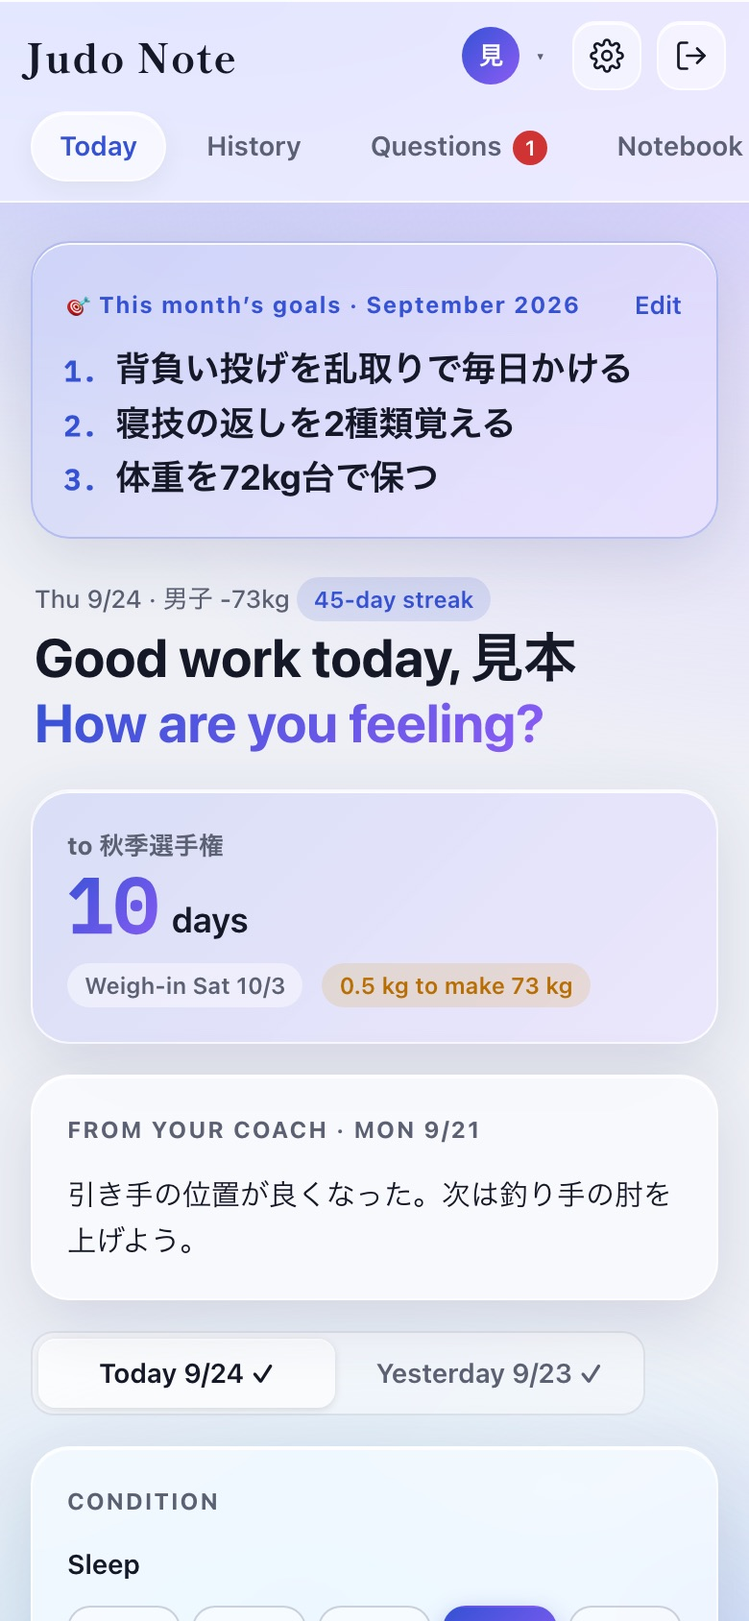
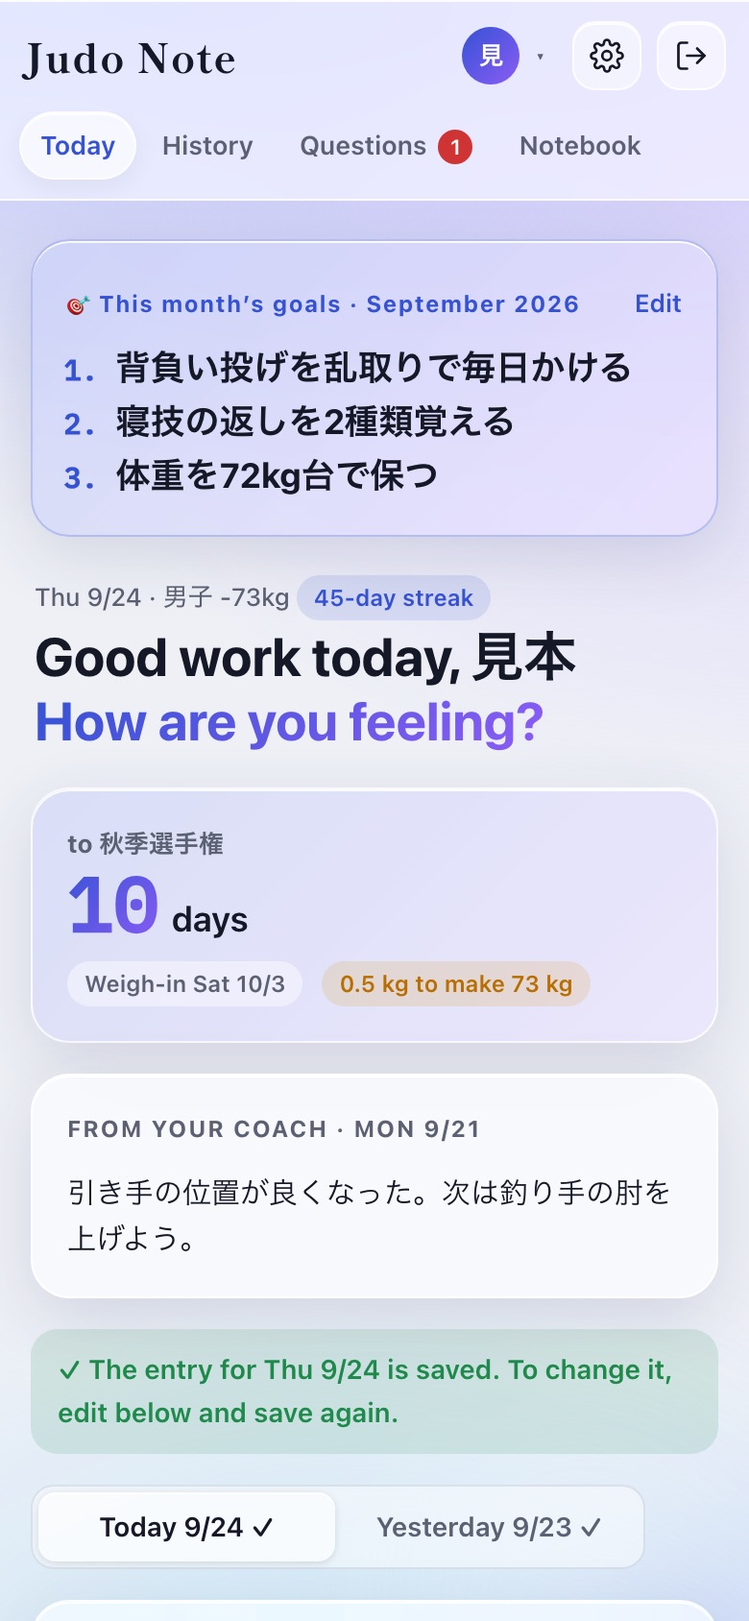
保存・送信の完了表示とひとこと、メッセージアプリ表記、公開前の最終調整

diff --git a/index.html b/index.html
@@ -354,6 +354,21 @@ textarea.inp{min-height:84px;resize:vertical;line-height:1.55}
 .acctrow{display:grid;grid-template-columns:auto 1fr auto;gap:10px;align-items:center;width:100%;text-align:left;border:1px solid var(--line);background:var(--panel2);border-radius:14px;padding:10px 12px;font:inherit;color:inherit;cursor:pointer}
 .acctrow.now{border-color:var(--accent);background:var(--tint)}
 .acchip{border:1px solid var(--line2);background:var(--panel2);border-radius:999px;padding:6px 13px;font:inherit;font-size:14px;font-weight:600;cursor:pointer;color:inherit} .acchip.on{border-color:var(--accent);color:var(--accent);background:var(--tint)}
+.btn.saving{opacity:.7;cursor:wait}
+.savedbar{padding:10px 14px;border-radius:14px;background:var(--good-s);color:var(--good);font-size:14px;font-weight:600}
+.done{position:fixed;inset:0;z-index:70;display:grid;place-items:center;padding:20px;background:rgba(10,12,20,.25);-webkit-backdrop-filter:blur(3px);backdrop-filter:blur(3px);animation:fadein .15s ease-out}
+.done-card{width:min(360px,100%);text-align:center;background:var(--glass);border:1px solid var(--glass-bd);border-radius:26px;box-shadow:var(--shadow),var(--hi);padding:24px 22px 18px;-webkit-backdrop-filter:blur(30px) saturate(1.6);backdrop-filter:blur(30px) saturate(1.6);animation:pop .28s cubic-bezier(.2,1.4,.4,1)}
+.done-card.big{width:min(420px,100%);padding:30px 24px 22px}
+.done-check svg{width:64px;height:64px} .done-card.big .done-check svg{width:84px;height:84px}
+.done-check circle{fill:none;stroke:var(--good);stroke-width:3;stroke-dasharray:151;stroke-dashoffset:151;animation:draw .45s .05s ease-out forwards}
+.done-check path{fill:none;stroke:var(--good);stroke-width:4;stroke-linecap:round;stroke-linejoin:round;stroke-dasharray:36;stroke-dashoffset:36;animation:draw .3s .4s ease-out forwards}
+.done-title{font-size:20px;font-weight:800;margin-top:8px} .done-card.big .done-title{font-size:24px}
+.done-msg{font-size:16px;margin-top:6px;line-height:1.6} .done-sub{font-size:13px;color:var(--dim);margin-top:8px;font-weight:600}
+.done-actions{display:flex;gap:8px;justify-content:center;margin-top:16px;flex-wrap:wrap}
+@keyframes draw{to{stroke-dashoffset:0}} @keyframes pop{from{transform:scale(.85);opacity:0}to{transform:none;opacity:1}} @keyframes fadein{from{opacity:0}}
+@media (prefers-reduced-motion:reduce){.done,.done-card,.done-check circle,.done-check path{animation:none;stroke-dashoffset:0}}
+@media (max-width:520px){.tabs .tab{padding:6px 10px;font-size:13.5px}.tabs{gap:2px;padding-inline:10px}
+  .subtabs{-webkit-mask-image:linear-gradient(to right,#000 85%,transparent);mask-image:linear-gradient(to right,#000 85%,transparent);padding-right:24px}}
 .st-bar{color:var(--accent)}
 .danger-btn{background:var(--bad);box-shadow:none}
 .btn:disabled{opacity:.55;cursor:wait}
@@ -362,6 +377,7 @@ textarea.inp{min-height:84px;resize:vertical;line-height:1.55}
 <body>
 <div id="app"></div>
 <div id="toast" class="toast noprint" role="status" hidden></div>
+<div id="done" class="done noprint" hidden></div>
 <script src="https://cdn.jsdelivr.net/npm/@supabase/supabase-js@2.117.1/dist/umd/supabase.min.js"></script>
 <script>
 /* =============================================================
@@ -377,9 +393,9 @@ const I18N = {
   n_what_a:'届く通知：毎日{h}に、その日の記録がまだならお知らせが1回だけ届きます。', n_what_c:'届く通知：毎日{h}に、チームのまとめ（記録した人数・未入力・欠席・痛みやケガ・未返信の質問）が1回だけ届きます。',
   n_what_off:'（毎日のお知らせは「なし」になっています）', remind_c:'毎日のまとめの時刻', n_sent0:'この端末はまだ通知の受け取り先として登録されていません。',
   pv_btn:'👀 選手の画面で見る', pv_banner:'{n}さんの画面を見ています（閲覧モード・書き込みはできません）', pv_exit:'閲覧モードを終わる',
-  inv_steps_t:'招待のしかた', inv_s1:'「誰に渡すか」に選手の名前を書いて「発行する」を押す（メモなので選手には見えません）', inv_s2:'できあがった招待メッセージを「送る」で、LINEなどから選手に送る（日本語・英語を選べます）',
+  inv_steps_t:'招待のしかた', inv_s1:'「誰に渡すか」に選手の名前を書いて「発行する」を押す（メモなので選手には見えません）', inv_s2:'できあがった招待メッセージを「送る」で、メッセージアプリなどから選手に送る（日本語・英語を選べます）',
   inv_s3:'選手がリンクを開き、自分でIDとパスワードを決めて登録する → 下の「選手」に名前が出たら完了', inv_s4:'保護者は、選手の登録が終わってから、その選手の欄の「＋ 保護者用コード」で同じように送る',
-  inv_note:'招待リンクは1人1回・14日間有効です。使われなかったコードは「取り消す」で消せます。', msg_lang:'メッセージの言語', share:'送る', msg_copied:'メッセージをコピーしました。LINEなどに貼り付けて送ってください。',
+  inv_note:'招待リンクは1人1回・14日間有効です。使われなかったコードは「取り消す」で消せます。', msg_lang:'メッセージの言語', share:'送る', msg_copied:'メッセージをコピーしました。メッセージアプリなどに貼り付けて送ってください。',
   g_hello:'{n}さんの記録', g_sub:'保護者として見ています（見るだけ）', t_g_log:'記録', viewers:'あなたの記録を見られる人', viewers_list:'コーチ{g}', viewers_g:'・保護者（{n}）',
   coach_only:'コーチだけに見せる（保護者には見えません）', coach_only_pill:'コーチだけ', g_inv:'保護者用コード', g_inv_made:'{n}さんの保護者用コードです。保護者に渡してください。', guardians:'保護者', g_join:'{a}さんの保護者として登録します（見るだけ）', g_remove:'外す',
   loading:'読み込み中…', join:'招待コードで登録', join_title:'チームに参加する', code:'招待コード', code_check:'確認', code_ok:'「{t}」に参加します', code_bad:'この招待コードは使えません。コーチに新しいコードをもらってください。',
@@ -407,6 +423,20 @@ const I18N = {
   run_title:'ランニング', run_latest:'最新', run_best:'自己ベスト', run_hist:'これまでの記録', run_add:'記録を追加', run_date:'測った日', run_dist:'距離（km）', run_time:'タイム', run_min:'分', run_sec:'秒', run_note:'メモ（任意）',
   run_saved:'ランニングの記録を保存しました', run_none:'まだ記録がありません。測ったときに入れよう。', run_pace:'1kmあたり', run_del:'削除', run_chart:'タイムの推移（上にいくほど速い）', run_up:'前回より {s} 速い', run_down:'前回より {s} 遅い', run_same:'前回と同じ',
   mon_title:'📘 {m}のまとめ', mon_days:'稽古', mon_time:'稽古時間', mon_avg:'平均の調子', mon_run:'ランニング最新', mon_match:'試合', mon_open:'冊子で見る', mon_day_u:'日', mon_match_u:'試合',
+  saving:'保存中…', done_ok:'OK', done_log:'記録を見る', done_saved_t:'保存しました！', done_saved_note:'✓ {d}の記録は保存済みです。直したいときは書き換えて、もう一度保存してください。',
+  ch_entry:['今日も記録ありがとう！明日もいっしょにがんばろう。','おつかれさま！書いたことが、きっと力になるよ。','記録完了！続けていることがいちばんの強さ。','ナイス記録！ゆっくり休んで、また明日。','今日もよくがんばったね。ちゃんと届いているよ！'],
+  ch_entry_y:['昨日の分も書けたね！えらい！','思い出して書けたのが立派！今日もがんばろう。'],
+  ch_head:'コーチの画面にしっかり表示されます。症状があるうちは稽古を休んで、病院で診てもらってください。お大事に。',
+  ch_streak:'記録 {n}日連続！', ch_stats:'調子 {s}/25 · 稽古 {m}分',
+  ch_ask_t:'質問を送りました！', ch_ask:['質問できるのはえらい！コーチからの返事を待っていてね。','いい質問！返事が来たら「質問」タブに数字が出るよ。'],
+  ch_reply_t:'返信を送りました', ch_reply_c:['選手にしっかり届きます。ありがとうございます！','ひとことが選手の力になります。'], ch_reply_a:['送りました！やりとりを続けていこう。'],
+  ch_cmt_t:'コメントを送りました', ch_cmt:['選手の励みになります。ありがとうございます！','選手の画面にすぐ表示されます。'],
+  ch_seen_t:'「見たよ」を送りました', ch_seen:['選手に「コーチが見ました」と表示されます。'],
+  ch_run_t:'ランニングを記録しました！', ch_run:['コツコツが力になる。ナイスラン！','よく走った！次も自分と勝負しよう。'], ch_pb_t:'🏅 自己ベスト更新！', ch_pb:['すごい！新しい記録だ！','努力が結果に出たね。おめでとう！'],
+  ch_mr_t:'振り返りを保存しました！', ch_mr:['試合のあとにふり返れるのは、強くなる選手の証拠。次につなげよう！','おつかれさま！書いたことを次の稽古に活かそう。'],
+  ch_goal_t:'今月の目標を保存しました！', ch_goal:['毎日少しずつ近づこう。応援しているよ！','目標があると練習が変わる。がんばろう！'],
+  ch_ev_t:'試合の予定を追加しました', ch_ev:['準備していこう！体調管理も大事だよ。'],
+  ch_inv_t:'招待コードを発行しました', ch_inv:['下の「📤 送る」から届けましょう。'],
   ed_edit:'編集', ed_mark:'（編集済み）', ed_save:'直す', ed_done:'直しました',
   ac_title:'この端末のアカウント', ac_help:'家族で1台のスマホを使うときは、ここで切り替えます。選手のアカウントは、親のスマホで使い終わると自動でログアウトします（次はパスワードが必要です）。', ac_add:'＋ 別の人がログインする',
   ac_needpw:'パスワードが必要', ac_now:'使用中', ac_role:{coach:'コーチ',athlete:'選手',guardian:'保護者'}, ac_saved:'この端末のアカウント', ac_forget:'この端末から外す', ac_switched:'{n}さんに切り替えました', ac_tap:'名前を押すと切り替えられます',
@@ -439,7 +469,7 @@ const I18N = {
   head_saved:'コーチに知らせました。症状があるうちは稽古を休み、医療機関で診てもらってください。',
   seen_btn:'見たよ', seen_sent:'「見たよ」を送りました', seen_pill:'✓ 見たよ', seen_ath:'✓ コーチが見ました', ev_target:'目標体重（kg）', ev_prompt:'次の試合は決まった？ 自分で登録しておこう', ev_go:'試合を登録する', ev_by_a:'自分で登録', ev_by_c:'コーチが登録', ev_by_a_c:'選手が登録',
   events:'試合の予定', ev_name:'大会名', ev_date:'試合日', ev_weigh:'計量日', ev_add:'予定を追加', ev_added:'予定を追加しました', ev_until:'{n}まで', ev_days:'あと{d}日', ev_today:'今日は{n}',
-  ev_weigh_s:'計量 {d}', ev_to_go:'目標（{l}kg）まで あと{w}kg', ev_ok:'階級内（{l}kg以下）', f_ev:'試合まで{d}日', ev_none:'予定はまだありません', ev_del:'削除',
+  ev_weigh_s:'計量 {d}', ev_to_go:'目標（{l}kg）まで あと{w}kg', ev_ok:'階級内（{l}kg以下）', f_ev:'試合まで{d}日', f_ev0:'今日 試合', ev_none:'予定はまだありません', ev_del:'削除',
   s_logged:'本日の入力', s_attn:'要チェック', s_unans:'未返信の質問',
   h_ath:'選手', h_trend:'調子（14日）', h_today:'今日', h_ramp:'負荷比', h_w:'体重',
   cmt_ph:'コメントを書く', send:'送信', reply:'返信', reply_ph:'返信を書く', new_q:'新しい質問', ask_btn:'質問する',
@@ -464,10 +494,10 @@ const I18N = {
   n_what_a:'Once a day at {h}: a reminder, only if you haven’t logged yet.', n_what_c:'Once a day at {h}: a team summary (logged, not logged, absent, pain/injury, unanswered questions).',
   n_what_off:'(daily notification is set to Off)', remind_c:'Daily summary time', n_sent0:'This device isn’t registered for notifications yet.',
   pv_btn:'👀 View as athlete', pv_banner:'Viewing {n}’s screen (preview — nothing can be changed)', pv_exit:'Exit preview',
-  inv_steps_t:'How to invite', inv_s1:'Type the athlete’s name under “Who is it for” and tap Create (the memo is only for you)', inv_s2:'Tap Send to share the ready-made invite message via LINE etc. (Japanese or English)',
+  inv_steps_t:'How to invite', inv_s1:'Type the athlete’s name under “Who is it for” and tap Create (the memo is only for you)', inv_s2:'Tap Send to share the ready-made invite message via Messages or another app (Japanese or English)',
   inv_s3:'The athlete opens the link and picks their own ID and password → when their name appears under “Athletes”, you’re done', inv_s4:'For a parent/guardian: after the athlete has joined, tap “＋ Guardian code” in that athlete’s row and send it the same way',
-  inv_note:'Each invite link works once, for 14 days. Cancel unused codes with “Cancel code”.', msg_lang:'Message language', share:'Send', msg_copied:'Message copied — paste it into LINE or another app.',
-  g_hello:'{n}’s records', g_sub:'Viewing as a parent/guardian (read-only)', t_g_log:'Records', viewers:'Who can see your records', viewers_list:'Your coach{g}', viewers_g:', your guardian ({n})',
+  inv_note:'Each invite link works once, for 14 days. Cancel unused codes with “Cancel code”.', msg_lang:'Message language', share:'Send', msg_copied:'Message copied — paste it into Messages or another app.',
+  g_hello:'{n}’s records', g_sub:'Viewing as a parent/guardian (read-only)', t_g_log:'Records', viewers:'Who can see your records', viewers_list:'your coach{g}', viewers_g:', your guardian ({n})',
   coach_only:'Only my coach can see this (hidden from my guardian)', coach_only_pill:'Coach only', g_inv:'Guardian code', g_inv_made:'Guardian code for {n}. Give it to their parent/guardian.', guardians:'Guardians', g_join:'You’re registering as {a}’s guardian (read-only)', g_remove:'Remove',
   loading:'Loading…', join:'Join with invite code', join_title:'Join your team', code:'Invite code', code_check:'Check', code_ok:'You’re joining “{t}”', code_bad:'This invite code can’t be used. Ask your coach for a new one.',
   name:'Your name', name_ph:'e.g. Liam Carter', login_id:'ID (for signing in)', login_id_help:'3–20 characters: lowercase letters, numbers, - or _', pw2:'Password (again)', pw_help:'At least 8 characters',
@@ -494,6 +524,20 @@ const I18N = {
   run_title:'Running', run_latest:'Latest', run_best:'Personal best', run_hist:'All records', run_add:'Add record', run_date:'Date', run_dist:'Distance (km)', run_time:'Time', run_min:'min', run_sec:'sec', run_note:'Note (optional)',
   run_saved:'Run saved', run_none:'No runs yet. Add one when you’re timed.', run_pace:'per km', run_del:'Delete', run_chart:'Your times (higher = faster)', run_up:'{s} faster than last time', run_down:'{s} slower than last time', run_same:'Same as last time',
   mon_title:'📘 {m} summary', mon_days:'Training', mon_time:'Time', mon_avg:'Avg. condition', mon_run:'Latest run', mon_match:'Matches', mon_open:'Open notebook', mon_day_u:' d', mon_match_u:'',
+  saving:'Saving…', done_ok:'OK', done_log:'See history', done_saved_t:'Saved!', done_saved_note:'✓ The entry for {d} is saved. To change it, edit below and save again.',
+  ch_entry:['Thanks for logging today! Let’s keep going tomorrow.','Great work! What you wrote will help you grow.','Logged! Showing up every day is your biggest strength.','Nice! Rest well and see you tomorrow.','You worked hard today. Your coach will see it!'],
+  ch_entry_y:['You caught up on yesterday — well done!','Nice job remembering! Keep it up today.'],
+  ch_head:'It’s flagged on your coach’s screen. Don’t train while you have symptoms and please see a doctor. Take care.',
+  ch_streak:'{n}-day streak!', ch_stats:'Condition {s}/25 · Practice {m} min',
+  ch_ask_t:'Question sent!', ch_ask:['Asking questions is how you get better. Watch for your coach’s reply.','Good question! A number appears on the Questions tab when they reply.'],
+  ch_reply_t:'Reply sent', ch_reply_c:['It will reach your athlete. Thank you!','A few words go a long way.'], ch_reply_a:['Sent! Keep the conversation going.'],
+  ch_cmt_t:'Comment sent', ch_cmt:['This will encourage your athlete. Thank you!','It shows on the athlete’s screen right away.'],
+  ch_seen_t:'“Seen” sent', ch_seen:['The athlete sees “Coach has seen this”.'],
+  ch_run_t:'Run saved!', ch_run:['Consistency pays off. Nice run!','Great effort! Beat yourself again next time.'], ch_pb_t:'🏅 New personal best!', ch_pb:['Amazing — a new record!','Your hard work is paying off. Congratulations!'],
+  ch_mr_t:'Match review saved!', ch_mr:['Reviewing after a match is what strong athletes do. Carry it into the next one!','Well done! Use this in your next practice.'],
+  ch_goal_t:'Goals saved!', ch_goal:['Get a little closer every day. We’re cheering for you!','Goals change how you train. Let’s go!'],
+  ch_ev_t:'Match added', ch_ev:['Let’s prepare well — look after your body too.'],
+  ch_inv_t:'Invite code created', ch_inv:['Send it with the “📤 Send” button below.'],
   ed_edit:'Edit', ed_mark:'(edited)', ed_save:'Save', ed_done:'Updated',
   ac_title:'Accounts on this device', ac_help:'Switch here when your family shares one phone. An athlete’s account signs out automatically when they’re done on a parent’s phone (they’ll need their password next time).', ac_add:'＋ Someone else signs in',
   ac_needpw:'Password needed', ac_now:'In use', ac_role:{coach:'Coach',athlete:'Athlete',guardian:'Guardian'}, ac_saved:'Accounts on this device', ac_forget:'Remove from this device', ac_switched:'Switched to {n}', ac_tap:'Tap a name to switch',
@@ -526,7 +570,7 @@ const I18N = {
   head_saved:'Your coach has been notified. Don’t train while you have symptoms, and please see a doctor.',
   seen_btn:'Seen', seen_sent:'Sent “Seen”', seen_pill:'✓ Seen', seen_ath:'✓ Coach has seen this', ev_target:'Target weight (kg)', ev_prompt:'Got your next match? Add it yourself', ev_go:'Add a match', ev_by_a:'Added by you', ev_by_c:'Added by coach', ev_by_a_c:'Added by athlete',
   events:'Competitions', ev_name:'Event', ev_date:'Match day', ev_weigh:'Weigh-in', ev_add:'Add event', ev_added:'Event added', ev_until:'to {n}', ev_days:'{d} days', ev_today:'{n} is today',
-  ev_weigh_s:'Weigh-in {d}', ev_to_go:'{w} kg to make {l} kg', ev_ok:'On weight (≤{l} kg)', f_ev:'Match in {d} d', ev_none:'No events yet', ev_del:'Delete',
+  ev_weigh_s:'Weigh-in {d}', ev_to_go:'{w} kg to make {l} kg', ev_ok:'On weight (≤{l} kg)', f_ev:'Match in {d} d', f_ev0:'Match today', ev_none:'No events yet', ev_del:'Delete',
   s_logged:'Logged today', s_attn:'Need a look', s_unans:'Unanswered',
   h_ath:'Athlete', h_trend:'Condition (14 d)', h_today:'Today', h_ramp:'Ramp', h_w:'Weight',
   cmt_ph:'Write a comment', send:'Send', reply:'Reply', reply_ph:'Write a reply', new_q:'New question', ask_btn:'Ask',
@@ -814,7 +858,7 @@ function flags(aid,L){
   const le=e||E(aid,addDays(TODAY,-1)); if(le&&le.pain.length){const p=le.pain.reduce((x,y)=>y.level>x.level?y:x);if(p.level>=2)f.push([p.level>=3?'bad':'warn',t.f_pain.replace('{p}',le.pain.map(q=>ptxt(q,t)).join('・'))])}
   const w=latestWeight(aid); if(w&&a.limit&&w>a.limit)f.push(['warn',t.f_w.replace('{d}',(w-a.limit).toFixed(1))]);
   if(e&&e.head&&e.head.length)f.unshift(['bad',t.f_head.replace('{s}',e.head.map(k=>t.hs[k]).join('・')),10]);
-  {const ne=nextEvent(aid);if(ne){const dd=dayDiff(TODAY,ne.date);if(dd<=14)f.push(['acc',t.f_ev.replace('{d}',dd)])}}
+  {const ne=nextEvent(aid);if(ne){const dd=dayDiff(TODAY,ne.date);if(dd<=14)f.push(['acc',dd?t.f_ev.replace('{d}',dd):t.f_ev0])}}
   if(e&&attOf(e)==='absent')f.push(['warn',t.f_abs.replace('{r}',e.absReason?t.ar[e.absReason]:t.att_l.absent)]);
   if(e&&attOf(e)==='watch')f.push(['acc',t.f_watch]);
   if(ST.threads.some(th=>th.aid===aid&&unanswered(th)))f.push(['acc',t.f_q]);
@@ -891,7 +935,7 @@ function trendCharts(aid,L,days=28){
   const wmin=Math.floor(Math.min(...(wv.length?wv:[60]))-1), wmax=Math.ceil(Math.max(...(wv.length?wv:[60]))+.6);
   const rr=ramp(aid,TODAY);
   return `<div class="card"><h2>${tt.last28}</h2><div class="stack">
-   <div class="chart"><div class="t">${tt.cond} <small>${tt.sleep}・${tt.energy}・${tt.soreness}・${tt.stress}・${tt.mood}（5〜25）</small></div>${chart(ds.map(d=>score(E(aid,d))),{min:5,max:25,ticks:[10,15,20,25],labels,marks})}</div>
+   <div class="chart"><div class="t">${tt.cond} <small>${[tt.sleep,tt.energy,tt.soreness,tt.stress,tt.mood].join(L==='ja'?'・':' · ')}${L==='ja'?'（5〜25）':' (5–25)'}</small></div>${chart(ds.map(d=>score(E(aid,d))),{min:5,max:25,ticks:[10,15,20,25],labels,marks})}</div>
    <div class="chart"><div class="t">${tt.load} <small>${tt.load_u}</small> <span class="sp"></span><span class="pill ${rr>1.5?'bad':rr>1.3?'warn':'good'}" title="${esc(tt.ramp_help)}">${tt.ramp} ×${rr?rr.toFixed(2):'—'}</span></div>${chart(ds.map(d=>load(E(aid,d))),{min:0,max:1800,kind:'bar',ticks:[0,600,1200,1800],labels,marks})}<div class="small muted">${tt.ramp_help}</div></div>
    <div class="chart"><div class="t">${tt.weight} <small>${esc(a.cls)}</small></div>${chart(ds.map(d=>E(aid,d)?.weight??null),{min:wmin,max:wmax,ticks:[wmin,Math.round((wmin+wmax)/2),wmax],labels,ref:a.limit||null,refLabel:a.limit?tt.limit+' '+a.limit+'kg':'',fill:false,marks})}</div>
   </div></div>`;
@@ -952,6 +996,7 @@ function athToday(){
   ${(()=>{const pe=(ST.events||[]).filter(e=>e.aids.includes(m.id)&&e.date<TODAY&&e.date>=addDays(TODAY,-3)&&!ST.mnotes[e.id]).sort((x,y)=>y.date.localeCompare(x.date))[0];
     return pe?`<div class="card row" style="justify-content:space-between"><span class="small">✍ ${esc(T.mr_pending.replace('{n}',pe.name).replace('{d}',fd(pe.date,L)))}</span><button class="btn sm" data-act="mreview" data-ev="${pe.id}">${T.mr_write}</button></div>`:''})()}
   ${lastC?`<div class="card"><h2>${T.from_coach} · ${fd(lastC.d,L)}</h2><div>${esc(lastC.c.text)}</div></div>`:''}
+  ${E(m.id,day)?`<div class="savedbar">${esc(T.done_saved_note.replace('{d}',fd(day,L)))}</div>`:''}
   <div class="segbar noprint" style="max-width:320px">${[[TODAY,T.d_today],[Y,T.d_yday]].map(([d,l])=>`<button type="button" data-act="eday" data-v="${d}" aria-pressed="${day===d}">${l} ${md(d)}${E(m.id,d)?' ✓':''}</button>`).join('')}</div>
   <form id="today-form" class="stack">
    <div class="card"><h2>${T.cond}</h2><div class="cond">${['sleep','energy','soreness','stress','mood'].map(seg).join('')}</div></div>
@@ -1039,7 +1084,7 @@ function monthPicker(){const L=lang();return `<div class="printbar noprint"><div
 
 function viewersNote(aid,L){
   const T=I18N[L], gs=guardiansOf(aid);
-  return `<div class="card small"><b>🔒 ${T.viewers}</b>：${T.viewers_list.replace('{g}',gs.map(g=>T.viewers_g.replace('{n}',esc(g.name))).join(''))}</div>`;
+  return `<div class="card small"><b>🔒 ${T.viewers}</b>${L==='ja'?'：':': '}${T.viewers_list.replace('{g}',gs.map(g=>T.viewers_g.replace('{n}',esc(g.name))).join(''))}</div>`;
 }
 function guardianView(){
   const L=lang(), T=I18N[L], S=subject(), a=acct(S), kids=childrenOf(me().id);
@@ -1315,7 +1360,7 @@ function settingsView(){
     <div class="opt-group"><span class="lbl">${T.mode}</span><div class="segbar">${[['auto',T.m_auto],['light',T.m_light],['dark',T.m_dark]].map(([v,l])=>`<button data-act="pref" data-k="mode" data-v="${v}" aria-pressed="${p.mode===v}">${l}</button>`).join('')}</div></div>
     ${pushBlock(T,p)}
     ${['athlete','coach'].includes(acct(UI.session).role)?`<div class="opt-group"><label class="lbl" for="remind">${acct(UI.session).role==='coach'?T.remind_c:T.remind}</label><select class="inp" id="remind" data-act="remind">${['off',...Array.from({length:18},(_,i)=>String(i+6).padStart(2,'0')+':00')].map(v=>`<option value="${v}" ${(p.remind||'21:00')===v?'selected':''}>${v==='off'?T.remind_off:v}</option>`).join('')}</select></div>`:''}
-    ${acct(UI.session).role==='athlete'?`<p class="small">🔒 ${T.viewers}：${T.viewers_list.replace('{g}',guardiansOf(UI.session).map(g=>T.viewers_g.replace('{n}',esc(g.name))).join(''))}</p>`:''}
+    ${acct(UI.session).role==='athlete'?`<p class="small">🔒 ${T.viewers}${L==='ja'?'：':': '}${T.viewers_list.replace('{g}',guardiansOf(UI.session).map(g=>T.viewers_g.replace('{n}',esc(g.name))).join(''))}</p>`:''}
     <p class="small"><a class="linkish" href="manual.html#${acct(UI.session).role==='coach'?'coach':(acct(UI.session).role==='guardian'?'parent':'athlete')+'-'+L}">📖 ${L==='ja'?'取扱説明書':'Manual'}</a></p>
     <p class="small muted">${T.settings_note}</p>
     <div class="row" style="justify-content:space-between"><span class="small muted">${esc(me().name)} · ID <span class="mono">${esc(me().login)}</span></span><button class="btn sm" data-act="closeset">${T.close}</button></div>
@@ -1495,12 +1540,28 @@ async function refreshData(){if(!me()||Date.now()-(UI.loadedAt||0)<30000)return;
 document.addEventListener('visibilitychange',()=>{if(document.visibilityState==='visible')refreshData()});
 
 /* ---------- 操作 ---------- */
-async function run(fn,okMsg){
-  try{UI.busy=true;await fn();UI.busy=false;render();if(okMsg)toast(okMsg)}
-  catch(e){UI.busy=false;console.error(e);toast(errText(e));render()}
+/* 押したボタンを「保存中…」にして、終わったら ✓ とひとことを出す（保存できたかが必ずわかるように） */
+const pick1=a=>Array.isArray(a)?a[Math.floor(Math.random()*a.length)]:a;
+function pressBusy(btn){if(!btn||btn.disabled)return null;const o={b:btn,h:btn.innerHTML};btn.disabled=true;btn.classList.add('saving');btn.innerHTML=t('saving');return o}
+function pressDone(o){if(o&&o.b.isConnected){o.b.disabled=false;o.b.classList.remove('saving');o.b.innerHTML=o.h}}
+function celebrate(d){
+  if(!d)return; if(typeof d==='string')d={title:d};
+  const el=document.getElementById('done'); clearTimeout(celebrate.t);
+  el.innerHTML=`<div class="done-card ${d.big?'big':''}" role="alertdialog" aria-live="assertive"><div class="done-check" aria-hidden="true"><svg viewBox="0 0 52 52"><circle cx="26" cy="26" r="24"/><path d="M15 27l7 7 15-16"/></svg></div>
+    <div class="done-title">${esc(d.title)}</div>${d.msg?`<div class="done-msg">${esc(d.msg)}</div>`:''}${d.sub?`<div class="done-sub">${esc(d.sub)}</div>`:''}
+    <div class="done-actions">${(d.actions||[]).map(([l,act,v])=>`<button class="btn ghost sm" data-act="${act}" data-v="${v||''}">${esc(l)}</button>`).join('')}<button class="btn sm" data-act="donehide">${t('done_ok')}</button></div></div>`;
+  el.hidden=false; if(!d.big)celebrate.t=setTimeout(()=>{el.hidden=true},3400);
+}
+async function run(fn,done,btn){
+  const o=pressBusy(btn||UI.pressed); UI.pressed=null;
+  try{UI.busy=true;const r=await fn();UI.busy=false;render();celebrate(typeof done==='function'?done(r):done)}
+  catch(e){UI.busy=false;pressDone(o);console.error(e);toast(errText(e));render()}
 }
 document.addEventListener('click',ev=>{
-  const el=ev.target.closest('[data-act]'); if(!el)return;
+  const el=ev.target.closest('[data-act]'); if(!el){if(ev.target.id==='done')document.getElementById('done').hidden=true;return}
+  if(el.dataset.act==='donehide'){document.getElementById('done').hidden=true;return}
+  if(el.dataset.act==='donego'){document.getElementById('done').hidden=true;UI.view=el.dataset.v;render();window.scrollTo(0,0);return}
+  UI.pressed=['seen','pushon','pushoff','invdel','remove','gunlink','demoreset','ginvite','evdel','rundel'].includes(el.dataset.act)?el:null;   // 保存・送信のボタンだけ「保存中…」にする
   if(el.dataset.act==='closeset'&&ev.target.closest('[data-stop]')&&el.classList.contains('scrim'))return;
   const a=el.dataset.act;
   if(UI.previewAs&&!['view','exitpreview','print','pym'].includes(a))return;   // 閲覧モードでは何も変えられない
@@ -1533,7 +1594,7 @@ document.addEventListener('click',ev=>{
   else if(a==='closeset'){UI.settings=false;render()}
   else if(a==='pref'){const p={...prefs(UI.session)};p[el.dataset.k]=el.dataset.v;savePrefs(p).catch(e=>toast(errText(e)))}
   else if(a==='evdel'){run(()=>deleteEvent(el.dataset.id))}
-  else if(a==='seen'){run(()=>sendFeedback(el.dataset.aid,el.dataset.d,null),t('seen_sent'))}
+  else if(a==='seen'){run(()=>sendFeedback(el.dataset.aid,el.dataset.d,null),()=>({title:t('ch_seen_t'),msg:pick1(t('ch_seen'))}))}
   else if(a==='student'){toast(t('st_preparing'));run(enterStudentMode)}
   else if(a==='exitstudent'){run(exitStudentMode)}
   else if(a==='demoreset'){const id=demoAcct().id;UI.confirmRemove=null;run(async()=>{must(await sb.rpc('coach_remove_athlete',{athlete:id}));try{localStorage.removeItem(DEMO_PW_KEY)}catch(e){}await getDemoSb().auth.signOut().catch(()=>{});await loadAll()},t('st_reset_done'))}
@@ -1587,6 +1648,7 @@ function stashDraft(){const f=document.getElementById('today-form');if(!f)return
 document.addEventListener('submit',ev=>{
   ev.preventDefault();
   if(UI.previewAs)return;
+  UI.pressed=ev.submitter||ev.target.querySelector('button[type=submit],button:not([type])');
   const f=ev.target, fid=f.getAttribute('id'), fdt=new FormData(f);
   const LL=UI.loginLang, TT=I18N[LL], showErr=(id,msg)=>{UI.err=msg;const e=document.getElementById(id);if(e)e.textContent=msg};
   if(fid==='login-form'){
@@ -1647,21 +1709,26 @@ document.addEventListener('submit',ev=>{
   if(fid==='today-form'){
     const d=formToEntry(fdt); saveDraft(d);
     const day=UI.eday||TODAY, isY=day!==TODAY;
-    run(async()=>{await saveEntry(d,day);clearDraft();UI.draft=null;UI.eday=TODAY;window.scrollTo(0,0)},d.head.length?t('head_saved'):isY?t('saved_y'):t('saved'))
+    run(async()=>{await saveEntry(d,day);clearDraft();UI.draft=null;UI.eday=day;window.scrollTo(0,0)},()=>{
+      const T=I18N[lang()], e=E(UI.session,day), n=streak(UI.session), sc=score(e);
+      return {big:true,title:T.done_saved_t,msg:d.head.length?T.ch_head:pick1(isY?T.ch_entry_y:T.ch_entry),
+        sub:[sc!=null&&e.min?T.ch_stats.replace('{s}',sc).replace('{m}',e.min):'',n>1?T.ch_streak.replace('{n}',n):''].filter(Boolean).join('　'),
+        actions:[[T.done_log,'donego','log']]}})
       .then(()=>{if(loadDraft())toast(t('offline_saved'))});
     return;
   }
-  if(f.dataset.form==='comment'){const v=(fdt.get('c')||'').trim();if(!v)return;run(()=>sendFeedback(f.dataset.aid,f.dataset.d,v),t('sent'))}
-  if(f.dataset.form==='reply'){const v=(fdt.get('r')||'').trim();if(!v)return;run(()=>sendReply(f.dataset.id,v),t('sent'))}
-  if(f.dataset.form==='ask'){const v=(fdt.get('q')||'').trim();if(!v)return;run(()=>askQuestion(v,false),t('sent'))}
-  if(f.dataset.form==='event'){const name=(fdt.get('name')||'').trim(),date=fdt.get('date');if(!name||!date)return;run(()=>addEvent(f.dataset.aid,name,date,fdt.get('weigh')||'',+fdt.get('target')||null),t('ev_added'))}
-  if(f.dataset.form==='run'){const sec=(+fdt.get('min')||0)*60+(+fdt.get('sec')||0);if(!sec)return;run(()=>addRun({day:fdt.get('day')||TODAY,dist:null,sec,note:(fdt.get('note')||'').trim()}),t('run_saved'))}
-  if(f.dataset.form==='mnote'){const ev=f.dataset.ev;run(async()=>{await saveMNote(ev,{result:(fdt.get('result')||'').trim(),good:(fdt.get('good')||'').trim(),issues:(fdt.get('issues')||'').trim(),next_steps:(fdt.get('next_steps')||'').trim()});UI.mEdit=null},t('mr_saved'))}
+  if(f.dataset.form==='comment'){const v=(fdt.get('c')||'').trim();if(!v)return;run(()=>sendFeedback(f.dataset.aid,f.dataset.d,v),()=>({title:t('ch_cmt_t'),msg:pick1(t('ch_cmt'))}))}
+  if(f.dataset.form==='reply'){const v=(fdt.get('r')||'').trim();if(!v)return;run(()=>sendReply(f.dataset.id,v),()=>({title:t('ch_reply_t'),msg:pick1(me().role==='coach'?t('ch_reply_c'):t('ch_reply_a'))}))}
+  if(f.dataset.form==='ask'){const v=(fdt.get('q')||'').trim();if(!v)return;run(()=>askQuestion(v,false),()=>({title:t('ch_ask_t'),msg:pick1(t('ch_ask'))}))}
+  if(f.dataset.form==='event'){const name=(fdt.get('name')||'').trim(),date=fdt.get('date');if(!name||!date)return;run(()=>addEvent(f.dataset.aid,name,date,fdt.get('weigh')||'',+fdt.get('target')||null),()=>({title:t('ch_ev_t'),msg:pick1(t('ch_ev'))}))}
+  if(f.dataset.form==='run'){const sec=(+fdt.get('min')||0)*60+(+fdt.get('sec')||0);if(!sec)return;const prev=(ST.runs[UI.session]||[]).map(r=>r.sec), pb=prev.length&&sec<Math.min(...prev);
+    run(()=>addRun({day:fdt.get('day')||TODAY,dist:null,sec,note:(fdt.get('note')||'').trim()}),()=>pb?{title:t('ch_pb_t'),msg:pick1(t('ch_pb')),sub:fmtTime(sec)}:{title:t('ch_run_t'),msg:pick1(t('ch_run')),sub:fmtTime(sec)})}
+  if(f.dataset.form==='mnote'){const ev=f.dataset.ev;run(async()=>{await saveMNote(ev,{result:(fdt.get('result')||'').trim(),good:(fdt.get('good')||'').trim(),issues:(fdt.get('issues')||'').trim(),next_steps:(fdt.get('next_steps')||'').trim()});UI.mEdit=null},()=>({title:t('ch_mr_t'),msg:pick1(t('ch_mr'))}))}
   if(f.dataset.form==='cnote'){run(()=>saveCNote(f.dataset.ev,f.dataset.aid,(fdt.get('body')||'').trim()),t('cn_saved'))}
   if(f.dataset.form==='editmsg'){const v=(fdt.get('body')||'').trim();if(!v)return;const id=f.dataset.id;run(async()=>{await editMessage(id,v);UI.msgEdit=null},t('ed_done'))}
   if(f.dataset.form==='editcmt'){const v=(fdt.get('c')||'').trim();if(!v)return;run(async()=>{await editComment(f.dataset.aid,f.dataset.d,v);UI.cmtEdit=null},t('ed_done'))}
-  if(f.dataset.form==='goals'){run(()=>saveGoals(curYm(),fdt.getAll('g').map(s=>s.trim()),(fdt.get('review')||'').trim()),t('goals_saved'))}
-  if(f.dataset.form==='invite'){run(async()=>{const c=must(await sb.rpc('create_invite',{memo:(fdt.get('memo')||'').trim()}));UI.newInvite=c;await loadAll()})}
+  if(f.dataset.form==='goals'){run(()=>saveGoals(curYm(),fdt.getAll('g').map(s=>s.trim()),(fdt.get('review')||'').trim()),()=>({title:t('ch_goal_t'),msg:pick1(t('ch_goal'))}))}
+  if(f.dataset.form==='invite'){run(async()=>{const c=must(await sb.rpc('create_invite',{memo:(fdt.get('memo')||'').trim()}));UI.newInvite=c;await loadAll()},()=>({title:t('ch_inv_t'),msg:pick1(t('ch_inv'))}))}
   if(f.dataset.form==='cls'){const aid=f.dataset.aid;run(async()=>{must(await sb.from('profiles').update({weight_class:(fdt.get('wclass')||'').trim(),weight_limit:+fdt.get('wlimit')||null}).eq('id',aid));await loadAll()},t('saved_cls'))}
   if(f.dataset.form==='resetpw'){const pw=fdt.get('pw')||'';if(pw.length<8)return toast(t('e_pw'));run(()=>sb.rpc('coach_reset_password',{athlete:f.dataset.aid,new_password:pw}).then(must),t('reset_done_pw'))}
 });

diff --git a/manual.html b/manual.html
@@ -103,7 +103,7 @@ kbd,.ui{font-family:var(--sans);font-weight:700;font-size:.92em;background:var(-
 
   <h2 id="aj2"><span class="n">02</span>はじめかた（最初に1回）</h2>
   <ol class="steps">
-    <li><div><b>コーチから届いた「招待リンク」を開く</b><br>LINEなどで届きます。リンクがないときは、アプリを開いて「招待コードで登録」に8文字のコードを入れます。</div></li>
+    <li><div><b>コーチから届いた「招待リンク」を開く</b><br>メッセージアプリなどで届きます。リンクがないときは、アプリを開いて「招待コードで登録」に8文字のコードを入れます。</div></li>
     <li><div><b>名前・ID・パスワード・階級を入れて「登録してはじめる」</b><br>IDは自分で決めます（英小文字・数字で3〜20文字）。パスワードは8文字以上です。iPhoneで「パスワードを保存」と出たら保存しておくと安心です。</div></li>
     <li><div><b>18歳未満の人は、保護者の方に説明してから</b>、保護者の名前を入れて同意のチェックをつけます。</div></li>
     <li><div><b>ホーム画面に追加する</b><br>iPhone：Safariで開いて <span class="ui">共有</span> → <span class="ui">ホーム画面に追加</span>。Android：Chromeのメニュー → <span class="ui">ホーム画面に追加</span>。「柔」のアイコンから開けます。</div></li>
@@ -136,7 +136,10 @@ kbd,.ui{font-family:var(--sans);font-weight:700;font-size:.92em;background:var(-
     <tr><td>感想・気づき</td><td>うまくいったこと、課題、次に意識すること。短くても大丈夫です。</td></tr>
     <tr><td>コーチへの質問</td><td>あれば書きます（なくてもOK）。</td></tr>
   </table></div>
-  <p>最後に <span class="ui">今日の記録を保存</span> を押します。</p>
+  <div class="with"><div>
+    <p>最後に <span class="ui">今日の記録を保存</span> を押します。ボタンが「保存中…」になり、保存できると <b>✓「保存しました！」</b> とひとことが出ます。これが出れば、コーチにちゃんと届いています。</p>
+    <p>その日の記録の上には「✓ ◯月◯日の記録は保存済みです」と表示されます。質問・ランニング・目標・振り返りも、保存できると ✓ が出ます。</p>
+  </div><figure><img src="manual-img/a-done.jpg" alt="保存しました" loading="lazy"><figcaption>保存できたときの画面</figcaption></figure></div>
   <div class="note">電波が悪くて保存できなかったときも、書いた内容はスマホに残ります。電波のよいところでもう一度「保存」を押してください。</div>
 
   <h2 id="aj5"><span class="n">05</span>書き忘れたとき・直したいとき</h2>
@@ -214,7 +217,7 @@ kbd,.ui{font-family:var(--sans);font-weight:700;font-size:.92em;background:var(-
 
   <h2 id="ae2"><span class="n">02</span>Getting started (once)</h2>
   <ol class="steps">
-    <li><div><b>Open the invite link from your coach</b><br>It arrives via LINE or similar. No link? Open the app, tap “Join with invite code” and enter the 8-character code.</div></li>
+    <li><div><b>Open the invite link from your coach</b><br>It arrives by text message or a messaging app. No link? Open the app, tap “Join with invite code” and enter the 8-character code.</div></li>
     <li><div><b>Enter your name, ID, password and weight class, then tap “Create account”</b><br>Choose your own ID (3–20 lowercase letters or numbers) and a password of 8+ characters. Save the password on your phone when it asks.</div></li>
     <li><div><b>Under 18?</b> Talk to your parent/guardian first, then enter their name and tick the consent box.</div></li>
     <li><div><b>Add it to your Home Screen</b><br>iPhone: Safari → <span class="ui">Share</span> → <span class="ui">Add to Home Screen</span>. Android: Chrome menu → <span class="ui">Add to Home screen</span>.</div></li>
@@ -247,7 +250,10 @@ kbd,.ui{font-family:var(--sans);font-weight:700;font-size:.92em;background:var(-
     <tr><td>Reflections</td><td>What worked, what to fix, what to focus on next. Short is fine.</td></tr>
     <tr><td>Question for the coach</td><td>Optional.</td></tr>
   </table></div>
-  <p>Finally tap <span class="ui">Save today’s entry</span>.</p>
+  <div class="with"><div>
+    <p>Finally tap <span class="ui">Save today’s entry</span>. The button shows “Saving…”, then a <b>✓ “Saved!”</b> card with a message appears — that means your coach has it.</p>
+    <p>Above that day’s form you’ll see “✓ The entry for … is saved”. Questions, runs, goals and reviews also show a ✓ when they’re saved.</p>
+  </div><figure><img src="manual-img/a-done-en.jpg" alt="Saved" loading="lazy"><figcaption>When your entry is saved</figcaption></figure></div>
   <div class="note">If the signal is too weak to save, your entry stays on your phone — tap Save again later.</div>
 
   <h2 id="ae5"><span class="n">05</span>Forgot to log / fixing mistakes</h2>
@@ -448,7 +454,7 @@ kbd,.ui{font-family:var(--sans);font-weight:700;font-size:.92em;background:var(-
     <ol class="steps">
       <li><div><span class="ui">選手の管理</span> タブを開きます。</div></li>
       <li><div>「誰に渡すか」に選手の名前を書いて <span class="ui">発行する</span>（メモなので選手には見えません）。</div></li>
-      <li><div>できた招待メッセージの言語（日本語 / EN）を選んで <span class="ui">📤 送る</span>。スマホの共有メニューから、LINEなどでそのまま送れます。</div></li>
+      <li><div>できた招待メッセージの言語（日本語 / EN）を選んで <span class="ui">📤 送る</span>。スマホの共有メニューから、メッセージアプリなどでそのまま送れます。</div></li>
       <li><div>選手がリンクを開いて自分でIDとパスワードを決めて登録すると、「選手」の欄に名前が出ます。</div></li>
     </ol>
     <p>招待リンクは<b>1人1回・14日間</b>有効です。使われなかったコードは「まだ使われていない招待コード」から <span class="ui">取り消す</span> で消せます。</p>
@@ -504,6 +510,7 @@ kbd,.ui{font-family:var(--sans);font-weight:700;font-size:.92em;background:var(-
     <li><b>コメント</b>：記録の下の欄に書いて <span class="ui">送信</span>。選手と保護者に見えます。</li>
     <li><b>見たよ</b>：言葉がいらない日（欠席・休みの日など）も、<span class="ui">見たよ</span> で「コーチが見ました」と伝わります。</li>
     <li><b>質問への返信</b>：<span class="ui">質問</span> タブ、または選手の画面の「質問・目標」から。</li>
+    <li><b>送れたかどうか</b>：押したボタンが「保存中…」になり、終わると ✓ とひとことが出ます。出なかったときは、画面下にエラーの理由が出ます。</li>
     <li><b>直す</b>：送ったコメントや返信は、名前の横の <span class="ui">編集</span> から直せます（「編集済み」と表示されます）。自分が書いたものだけ直せます。</li>
   </ul>
 

diff --git a/guide.html b/guide.html
@@ -7,7 +7,7 @@
 <link rel="icon" href="icon-192.png">
 <link rel="stylesheet" href="https://fonts.googleapis.com/css2?family=Shippori+Mincho+B1:wght@800&family=IBM+Plex+Mono:wght@500&display=swap">
 <style>
-/* 選手・保護者に配る案内（A4 1枚ずつ。印刷しても、画像にしてLINEで送っても読める） */
+/* 選手・保護者に配る案内（A4 1枚ずつ。印刷しても、画像にしてメッセージで送っても読める） */
 :root{--ink:#16181f;--dim:#555b68;--line:#d6d9e0;--soft:#f1f3f9;--acc:#3552d4;--acc2:#8b5cf6;--warn:#b86e00;
   --sans:-apple-system,BlinkMacSystemFont,"Hiragino Sans","Hiragino Kaku Gothic ProN","Noto Sans JP",sans-serif;
   --mincho:"Shippori Mincho B1","Hiragino Mincho ProN","Yu Mincho",serif;--mono:"IBM Plex Mono",ui-monospace,Menlo,monospace}
@@ -60,7 +60,7 @@ body.only .page{display:none} body.only .page.show{display:flex} body.only nav{d
   <div>
     <h2><span class="n">STEP</span>登録のしかた（最初に1回）</h2>
     <ol class="steps">
-      <li><div><b>コーチから届いた「招待リンク」を開く</b>LINEなどで届きます。リンクがないときは、上のQRコードからアプリを開き、「招待コードで登録」にコーチからもらった8文字のコードを入れます。</div></li>
+      <li><div><b>コーチから届いた「招待リンク」を開く</b>メッセージアプリなどで届きます。リンクがないときは、上のQRコードからアプリを開き、「招待コードで登録」にコーチからもらった8文字のコードを入れます。</div></li>
       <li><div><b>名前・ID・パスワード・階級を入れて「登録してはじめる」</b>IDとパスワードは自分で決めます（IDは英小文字・数字で3〜20文字、パスワードは8文字以上）。<span class="warn">18歳未満の人は、保護者の方に説明してから、保護者の名前と同意のチェックを入れて登録してください。</span></div></li>
       <li><div><b>ホーム画面に追加する</b>iPhone：Safariで開いて「共有」→「ホーム画面に追加」。Android：Chromeのメニュー →「ホーム画面に追加」。「柔」のアイコンから、アプリのように開けます。</div></li>
       <li><div><b>通知をオンにする</b>ホーム画面の「柔」から開く → 右上の歯車 →「この端末で通知を受け取る」→「許可」。毎日決まった時刻（はじめは21時）に、記録がまだならお知らせが届きます。時刻は歯車から変えられます。</div></li>
@@ -89,7 +89,7 @@ body.only .page{display:none} body.only .page.show{display:flex} body.only nav{d
   <div>
     <h2><span class="n">STEP</span>Sign up (once)</h2>
     <ol class="steps">
-      <li><div><b>Open the invite link from your coach</b>It comes via LINE or similar. No link? Open the app with the QR code above, tap “Join with invite code” and enter the 8-character code from your coach.</div></li>
+      <li><div><b>Open the invite link from your coach</b>It comes by text message or a messaging app. No link? Open the app with the QR code above, tap “Join with invite code” and enter the 8-character code from your coach.</div></li>
       <li><div><b>Enter your name, ID, password and weight class, then tap “Create account”</b>You choose your own ID (3–20 lowercase letters or numbers) and password (8+ characters). <span class="warn">If you’re under 18, talk to your parent/guardian first, then enter their name and tick the consent box.</span></div></li>
       <li><div><b>Add it to your Home Screen</b>iPhone: open in Safari → Share → “Add to Home Screen”. Android: Chrome menu → “Add to Home screen”. Then open it from the Home Screen icon like an app.</div></li>
       <li><div><b>Turn on notifications</b>Open from the Home Screen icon → gear icon (top right) → “Get notifications on this device” → Allow. Once a day (9 pm at first) you’ll get a reminder if you haven’t logged. Change the time from the gear icon.</div></li>
